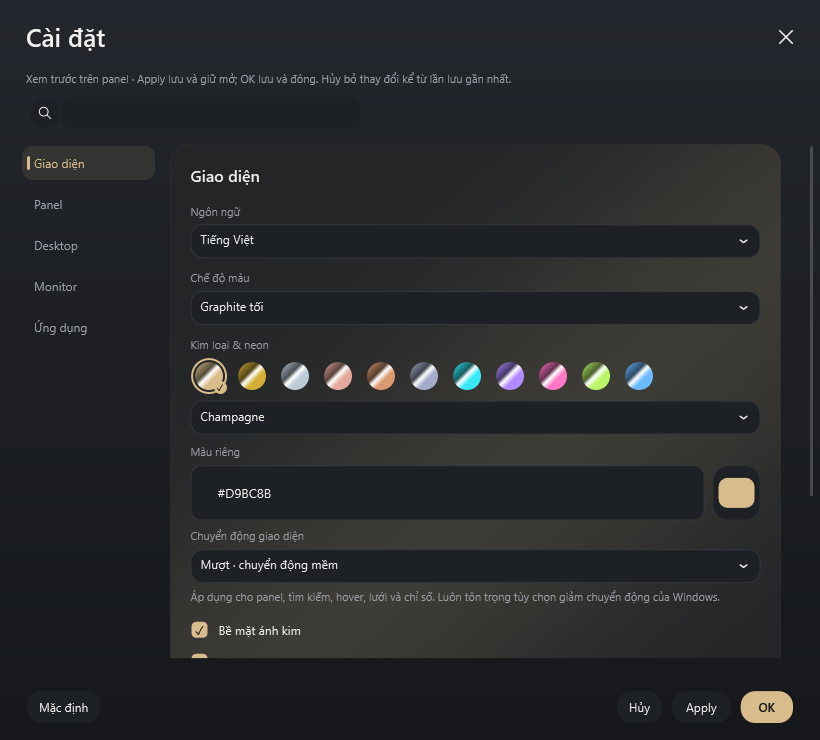
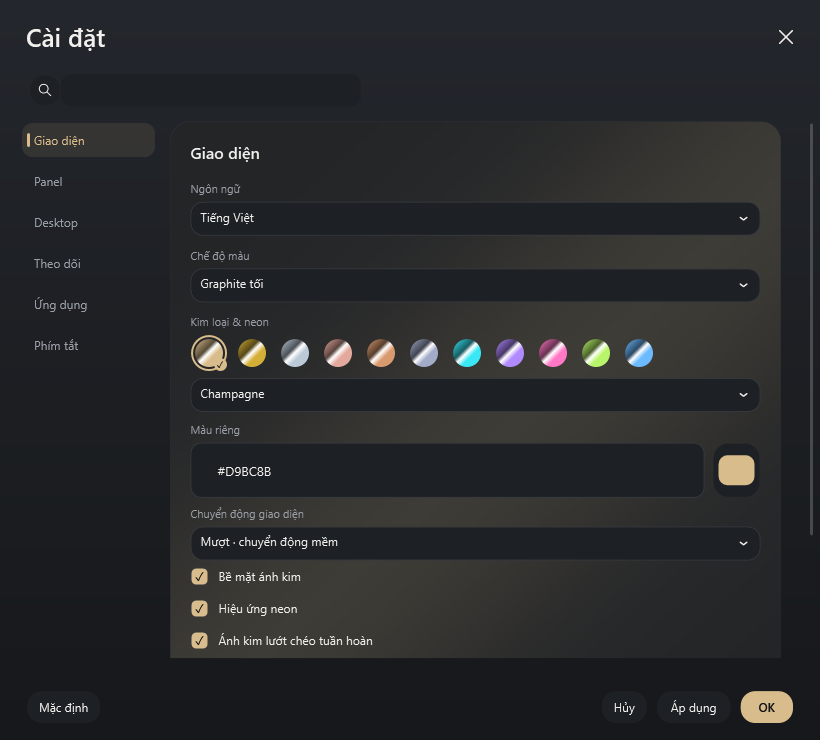
Refresh screenshots, release notes and READMEs for the current UI
The README screenshots still showed "Apply", the "Monitor" tab and the
removed explanation lines. Both images are regenerated from a clean
Release rebuild of 482575f (UI suite 1970/1970) following the steps in
docs/images/README.md, which records the new commit, src tree, version
and hashes. The panel image now shows the muted missing-temperature
dash; the settings image shows the Shortcuts section.

The 1.0.0 release notes list rebindable shortcuts, the in-app Guide and
Copy diagnostics in both languages; the Vietnamese notes say "Áp dụng".
The READMEs mention that every shortcut can be changed and where, and
the changelogs list the dash tooltip, Copy diagnostics and the
guardian's Task Manager name.

diff --git a/docs/images/README.md b/docs/images/README.md
@@ -1,30 +1,30 @@
 # 🖼 Image provenance · Nguồn ảnh
 
-Both images were generated together on **17 October 2026** from a fresh Release rebuild. No user screenshot or prior QA image was used.
+Both images were generated together on **24 October 2026** from a fresh Release rebuild. No user screenshot or prior QA image was used.
 
-Hai ảnh được tạo cùng lượt ngày **17/10/2026** từ Release rebuild mới; không dùng ảnh người dùng hoặc kết quả QA cũ.
+Hai ảnh được tạo cùng lượt ngày **24/10/2026** từ Release rebuild mới; không dùng ảnh người dùng hoặc kết quả QA cũ.
 
 ## Source · Nguồn
 
 | Field / Trường | Value / Giá trị |
 | --- | --- |
-| Commit | `15cdbb22f2533762ddccfb0b8cdb1fd7cbf2dd7e` — matched origin/main before build / khớp origin/main trước build |
-| src Git tree | `bdf88f4567228b981dbc3a1cb6fa2ba6b683786c` |
-| ProductVersion | `1.0.0+15cdbb22f2533762ddccfb0b8cdb1fd7cbf2dd7e` |
+| Commit | `ff63ba91eb9a421153933326734f6b4585779757` — branch `chore/release-prep`, clean tree before build / nhánh `chore/release-prep`, cây sạch trước build |
+| src Git tree | `2f7dd41022a8150a2f558c9afe2e977e419b0b7c` |
+| ProductVersion | `1.0.0-beta.1+ff63ba91eb9a421153933326734f6b4585779757` |
 | Build | Release · Windows x64 |
[1 lines of base64/hex data omitted]
-| UI verification / Kiểm thử | 1789 passed / đạt · 0 failed / lỗi; native collector disabled / tắt collector thật |
[1 lines of base64/hex data omitted]
+| UI verification / Kiểm thử | 1970 passed / đạt · 0 failed / lỗi; native collector disabled / tắt collector thật |
 
 ## Images · Ảnh
 
 | Image | Render | SHA-256 |
 | --- | --- | --- |
[4 lines of base64/hex data omitted]
 
-Dark/Champagne, Vietnamese UI. Real WPF views rendered in an isolated fixture; not screenshots of the user's running desktop. Panel names, icons and telemetry are illustrative. Settings uses vertical navigation at this width. Its PNG matches the previous render byte-for-byte because this view has not changed; it was still regenerated in this run.
+Dark/Champagne, Vietnamese UI. Real WPF views rendered in an isolated fixture; not screenshots of the user's running desktop. Panel names, icons and telemetry are illustrative. Settings uses vertical navigation at this width and shows the Shortcuts section, translated buttons and no explanatory captions.
 
-Giao diện tối/Champagne, tiếng Việt. View WPF thật được render trong fixture cô lập, không phải screenshot Desktop người dùng. Tên mục, icon và số đo panel là minh họa. Settings dùng menu dọc ở kích thước này. PNG Settings giống từng byte với lượt trước vì view chưa thay đổi; ảnh vẫn được tạo lại trong lượt này.
+Giao diện tối/Champagne, tiếng Việt. View WPF thật được render trong fixture cô lập, không phải screenshot Desktop người dùng. Tên mục, icon và số đo panel là minh họa. Settings dùng menu dọc ở kích thước này, có mục Phím tắt, nút đã Việt hóa và không còn dòng giải thích.
 
 ## Reproduce · Tái tạo
 

diff --git a/docs/release/RELEASE_1.0.0.md b/docs/release/RELEASE_1.0.0.md
@@ -26,6 +26,8 @@ Extract the complete portable archive and run `Nepply.exe`; keep `guardian` and 
 - Desktop search, launch and Windows context menus.
 - Columns × rows grid and screen-relative panel dimensions.
 - Light/dark themes, neon/metallic effects and Settings preview; Apply or OK to save.
+- Rebindable shortcuts in Settings → Shortcuts, including optional global keys to open search, hide/show desktop icons, pin the panel and open settings.
+- An in-app Guide (tray or Settings) with your current shortcuts and usage tips; Settings itself shows feature names only.
 - CPU, RAM, GPU/iGPU and upload/download monitoring.
 - Suppressed automatic edge activation when games hide the pointer for character control.
 - Eight interface languages and an update window with release notes.
@@ -40,7 +42,7 @@ Extract the complete portable archive and run `Nepply.exe`; keep `guardian` and 
 
 [User guide](https://github.com/minhquang0607/Nepply/blob/main/docs/USER_GUIDE.en.md) · [Troubleshooting](https://github.com/minhquang0607/Nepply/blob/main/docs/TROUBLESHOOTING.en.md) · [Report an issue](https://github.com/minhquang0607/Nepply/issues)
 
-Include Windows/Nepply versions and reproduction steps. Redact paths, account names and personal data in screenshots or logs.
+Include Windows/Nepply versions and reproduction steps; **Settings → Application → Copy diagnostics** copies the version, Windows and sensor details for you. Redact paths, account names and personal data in screenshots or logs.
 
 ## Tiếng Việt
 
@@ -67,7 +69,9 @@ Với portable, giải nén **toàn bộ** và chạy `Nepply.exe`; không tách
 - Mở panel từ cạnh màn hình hoặc Ctrl + Space; ghim khi cần.
 - Tìm và mở mục Desktop, dùng menu chuột phải của Windows.
 - Chỉnh lưới cột × hàng, bố cục và kích thước theo màn hình.
-- Giao diện sáng/tối, neon và ánh kim; xem trước cài đặt, Apply hoặc OK để lưu.
+- Giao diện sáng/tối, neon và ánh kim; xem trước cài đặt, Áp dụng hoặc OK để lưu.
+- Đổi được mọi phím tắt trong Cài đặt → Phím tắt, kèm phím toàn cục tùy chọn để mở tìm kiếm, ẩn/hiện icon Desktop, ghim panel và mở Cài đặt.
+- Màn **Hướng dẫn** trong app (từ khay hoặc Cài đặt) liệt kê phím tắt bạn đang dùng và mẹo sử dụng; Cài đặt chỉ hiện tên chức năng.
 - Theo dõi CPU, RAM, GPU/iGPU và tốc độ tải xuống/tải lên.
 - Hạn chế tự mở panel khi game ẩn con trỏ để điều khiển nhân vật.
 - Tám ngôn ngữ và cửa sổ kiểm tra cập nhật có ghi chú phiên bản.
@@ -82,4 +86,4 @@ Với portable, giải nén **toàn bộ** và chạy `Nepply.exe`; không tách
 
 [Hướng dẫn sử dụng](https://github.com/minhquang0607/Nepply/blob/main/docs/USER_GUIDE.md) · [Xử lý sự cố](https://github.com/minhquang0607/Nepply/blob/main/docs/TROUBLESHOOTING.md) · [Báo lỗi](https://github.com/minhquang0607/Nepply/issues)
 
-Khi báo lỗi, gửi phiên bản Windows/Nepply và các bước tái hiện; che đường dẫn, tên tài khoản và dữ liệu cá nhân trong ảnh hoặc log.
+Khi báo lỗi, gửi phiên bản Windows/Nepply và các bước tái hiện; nút **Cài đặt → Ứng dụng → Sao chép chẩn đoán** chép sẵn phiên bản, Windows và thông tin cảm biến. Che đường dẫn, tên tài khoản và dữ liệu cá nhân trong ảnh hoặc log.

diff --git a/README.md b/README.md
@@ -14,7 +14,7 @@ Nepply sits at the edge of your Windows screen. Open Desktop items, search by na
 
 | | What you can do |
 | --- | --- |
-| 🖱 Quick access | Open from your chosen screen edge or a hotkey; pin the panel when needed. |
+| 🖱 Quick access | Open from your chosen screen edge or a hotkey; pin the panel when needed. Every shortcut can be changed. |
 | 🔎 Desktop search | Find and launch items, with the Windows context menu. Your files stay where they are. |
 | 🎨 Make it yours | Light/dark/system theme, colors, neon and metallic effects, with live preview before saving. |
 | 📐 Flexible layout | Choose columns × rows with the dot grid; scroll through additional items. |
@@ -53,7 +53,7 @@ Only use the official release channel. If Windows blocks a file, check its sourc
 ## 🚀 Get started
 
 1. Open Nepply and choose a screen edge.
-2. Move to that edge, or press **Ctrl + Space** unless you changed the hotkey.
+2. Move to that edge, or press **Ctrl + Space** unless you changed it in Settings → Shortcuts.
 3. Open a Desktop item or search by name.
 4. Try changes in Settings: **Apply** saves and stays open; **OK** saves and closes; **Cancel** discards changes since the last save.
 5. To quit completely, choose **Exit** from the tray icon.

diff --git a/CHANGELOG.md b/CHANGELOG.md
@@ -31,6 +31,9 @@ Bản tổng hợp ngày **17/10/2026**, gom các thay đổi trong giai đoạn
 - Phân biệt GPU/iGPU theo thông tin hệ thống; cảm biến không hỗ trợ có thể không hiển thị số đo.
 - Khi panel ẩn, tiến trình cảm biến được giữ thêm 60 giây (không đọc số liệu) nên mở lại panel sẽ có số đo ngay, không phải khởi động lại; tắt theo dõi hoặc tắt cảm biến vẫn dừng nó ngay.
 - Mã nhận dạng GPU, màn hình hoặc mạng quá dài trong tệp cài đặt sẽ trở về chế độ tự chọn, thay vì làm cảm biến kẹt ở trạng thái đang kết nối lại.
+- Khi không đọc được nhiệt độ, dấu — hiện màu nhạt và rê chuột sẽ thấy lý do.
+- Nút **Sao chép chẩn đoán** (Cài đặt → Ứng dụng) chép phiên bản, Windows và thông tin cảm biến để dán khi báo lỗi; không chứa đường dẫn hay tên tài khoản.
+- Tiến trình bảo vệ icon Desktop hiện tên rõ ràng trong Task Manager.
 
 ### Cập nhật và khôi phục
 

diff --git a/CHANGELOG.en.md b/CHANGELOG.en.md
@@ -31,6 +31,9 @@ Consolidated **17 October 2026**. This is a summary of development changes, not 
 - GPU/iGPU classification uses system information; unavailable sensors may show no reading.
 - After the panel hides, the sensor helper is kept for 60 seconds (without reading), so reopening shows readings right away instead of restarting it; turning off monitoring or sensors still stops it immediately.
 - An overly long GPU, monitor or network identifier in the settings file falls back to automatic selection instead of leaving sensors stuck reconnecting.
+- A missing temperature shows a muted dash that explains why on hover.
+- **Copy diagnostics** (Settings → Application) copies the version, Windows and sensor details for bug reports, without paths or account names.
+- The Desktop icon guardian process has a clear name in Task Manager.
 
 ### Updates & recovery
 
